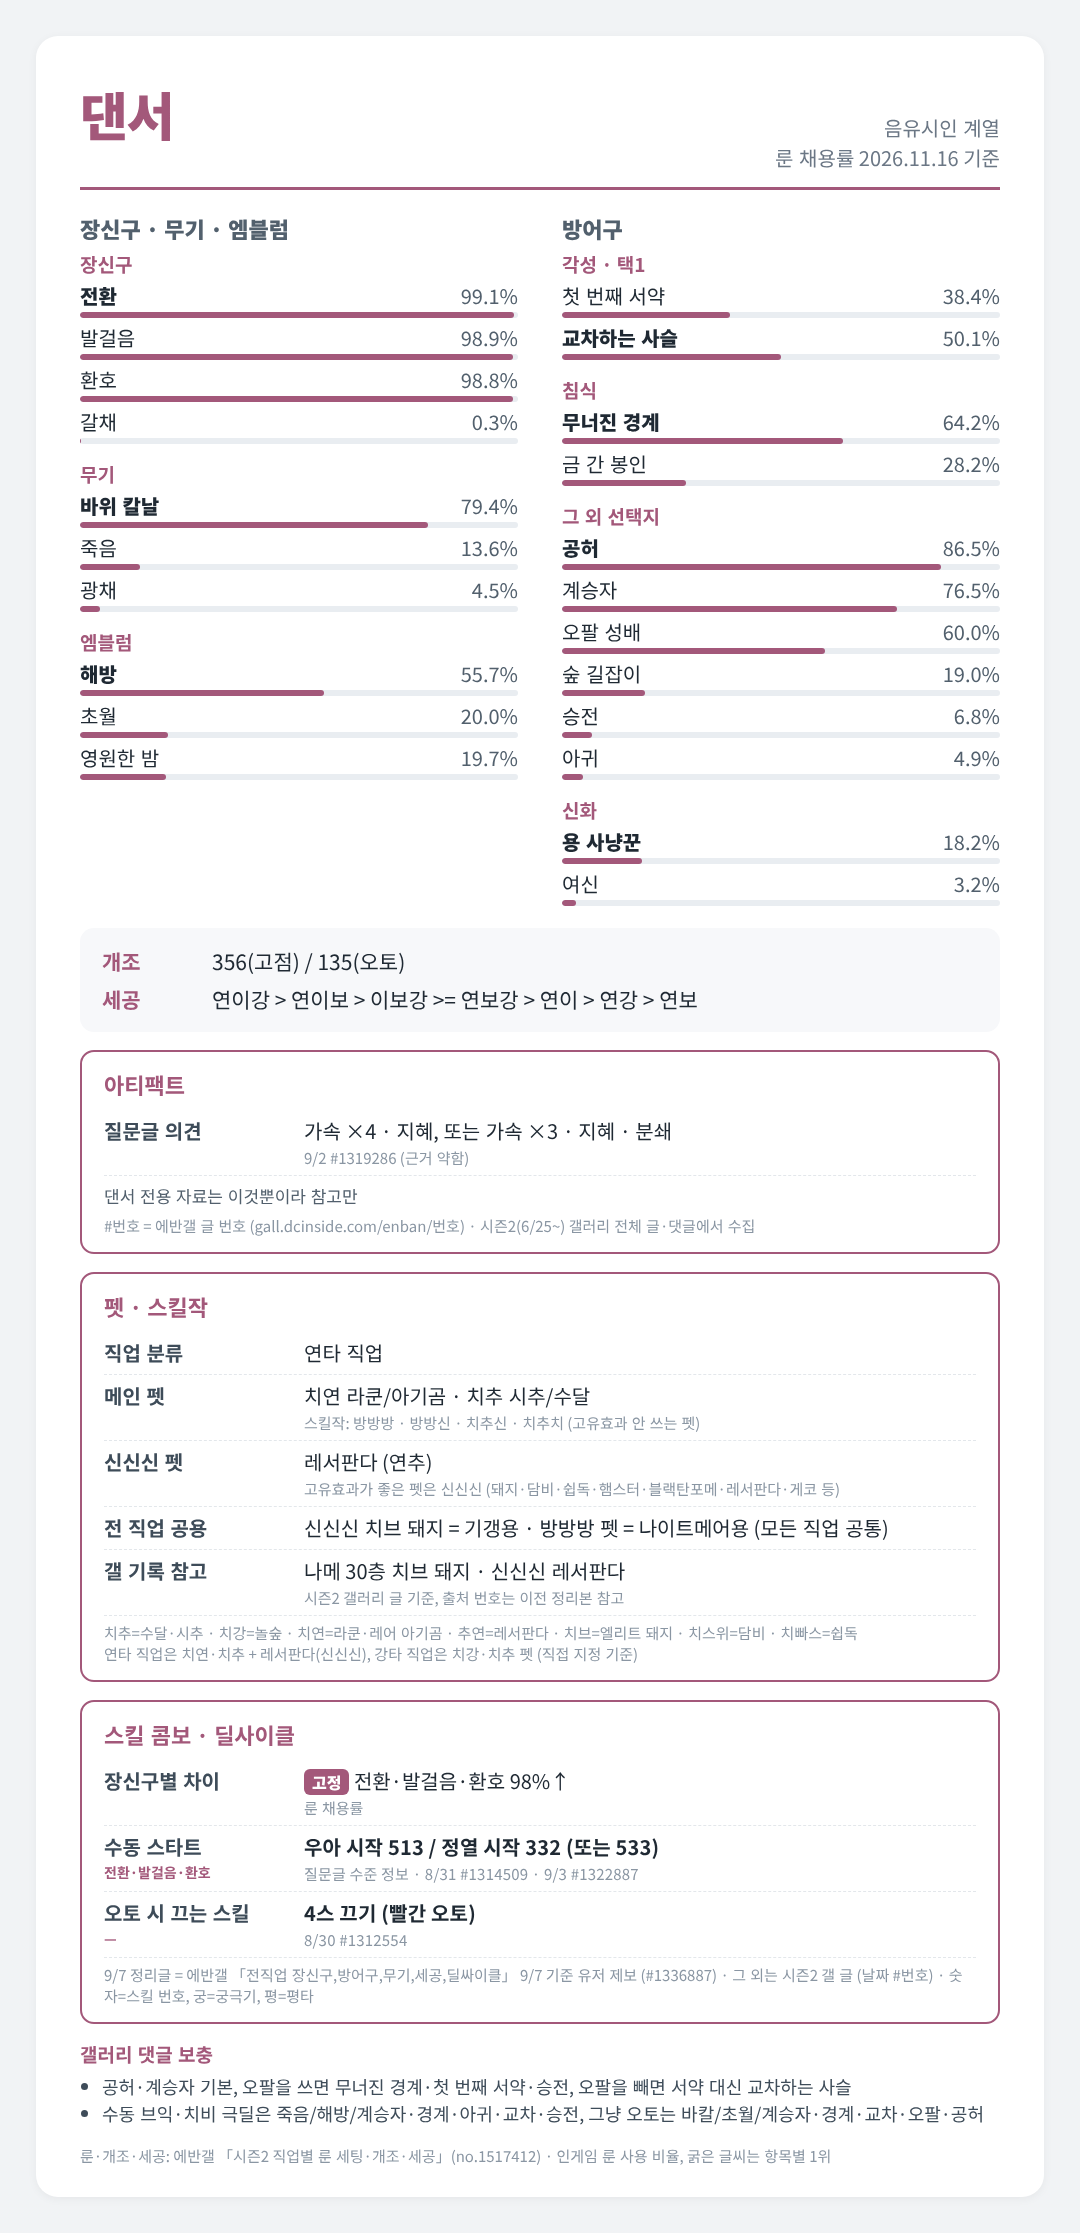
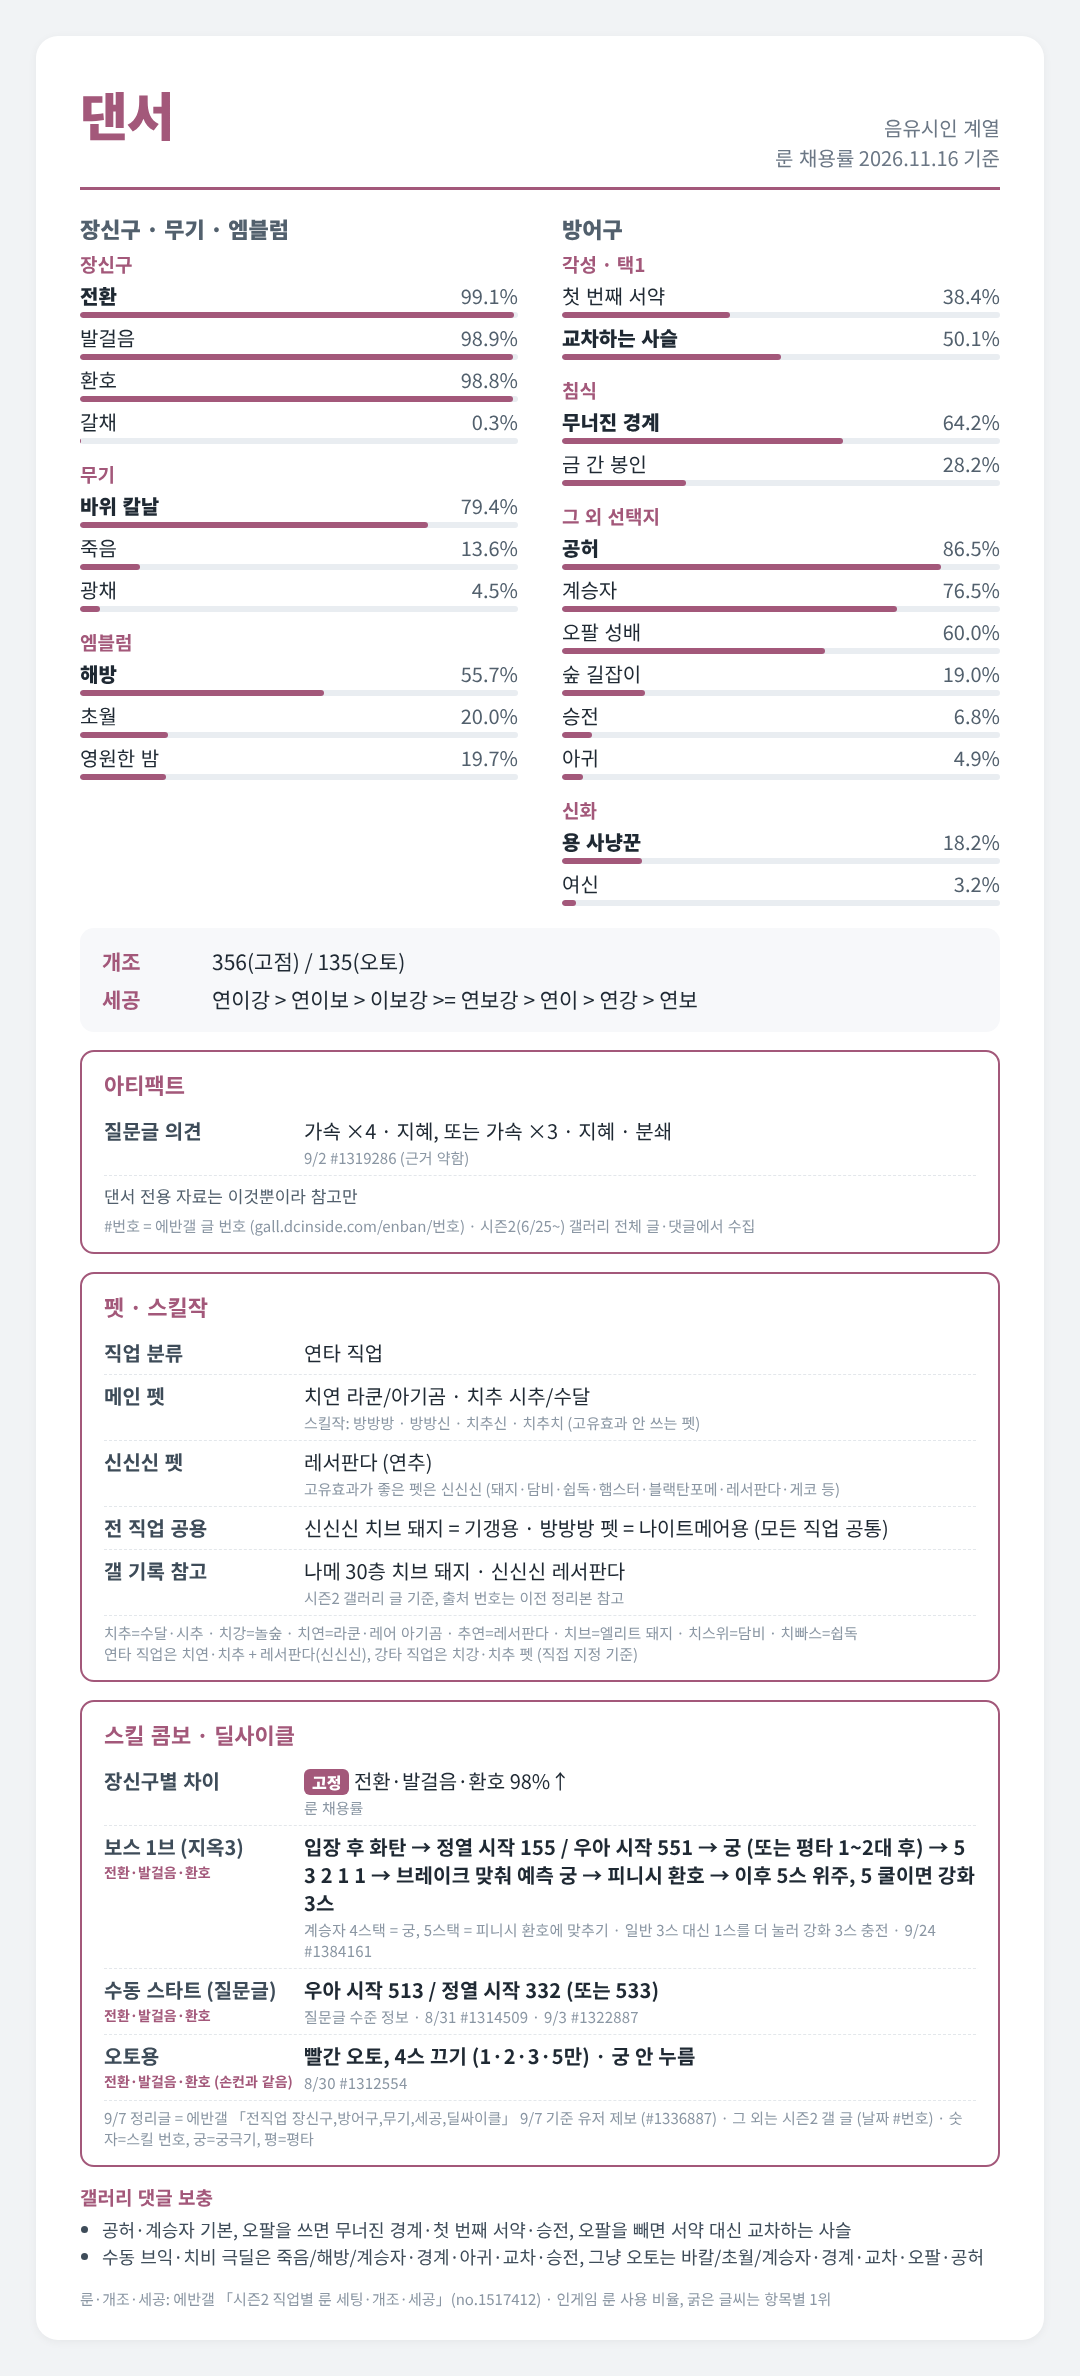
직업별 세팅 카드 14장 갱신 (v1123d)
Claude-Session: https://claude.ai/code/session_01LM8UucPVM58m71Cyhb2qQr

Changed region(s): [[0.0611, 0.0309, 0.9167, 0.9888], [0.7028, 0.8652, 0.8556, 0.8961]]

diff --git a/c/21_dualblade.html b/c/21_dualblade.html
@@ -5,9 +5,9 @@
 <meta property="og:type" content="website">
 <meta property="og:title" content="듀얼블레이드 세팅 카드">
 <meta property="og:description" content="마비노기 모바일 듀얼블레이드 장신구·방어구·무기·세공 세팅">
-<meta property="og:image" content="https://sundae-vanilla.github.io/-/21_dualblade.png?v=1123b">
+<meta property="og:image" content="https://sundae-vanilla.github.io/-/21_dualblade.png?v=1123d">
 <meta property="og:image:width" content="1080">
-<meta property="og:image:height" content="2144">
+<meta property="og:image:height" content="2210">
 <meta property="og:url" content="https://sundae-vanilla.github.io/-/c/21_dualblade.html">
 <style>html,body{margin:0;background:#fff}body{min-height:100vh;display:flex;align-items:center;justify-content:center}img{display:block;width:100%;max-width:1080px;height:auto}</style>
-</head><body><img src="../21_dualblade.png?v=1123b" alt="듀얼블레이드 세팅 카드"></body></html>
+</head><body><img src="../21_dualblade.png?v=1123d" alt="듀얼블레이드 세팅 카드"></body></html>

diff --git a/c/02_greatsword.html b/c/02_greatsword.html
@@ -5,9 +5,9 @@
 <meta property="og:type" content="website">
 <meta property="og:title" content="대검전사 세팅 카드">
 <meta property="og:description" content="마비노기 모바일 대검전사 장신구·방어구·무기·세공 세팅">
-<meta property="og:image" content="https://sundae-vanilla.github.io/-/02_greatsword.png?v=1123b">
+<meta property="og:image" content="https://sundae-vanilla.github.io/-/02_greatsword.png?v=1123d">
 <meta property="og:image:width" content="1080">
-<meta property="og:image:height" content="2497">
+<meta property="og:image:height" content="2518">
 <meta property="og:url" content="https://sundae-vanilla.github.io/-/c/02_greatsword.html">
 <style>html,body{margin:0;background:#fff}body{min-height:100vh;display:flex;align-items:center;justify-content:center}img{display:block;width:100%;max-width:1080px;height:auto}</style>
-</head><body><img src="../02_greatsword.png?v=1123b" alt="대검전사 세팅 카드"></body></html>
+</head><body><img src="../02_greatsword.png?v=1123d" alt="대검전사 세팅 카드"></body></html>

diff --git a/c/06_crossbow.html b/c/06_crossbow.html
@@ -5,9 +5,9 @@
 <meta property="og:type" content="website">
 <meta property="og:title" content="석궁사수 세팅 카드">
 <meta property="og:description" content="마비노기 모바일 석궁사수 장신구·방어구·무기·세공 세팅">
-<meta property="og:image" content="https://sundae-vanilla.github.io/-/06_crossbow.png?v=1123b">
+<meta property="og:image" content="https://sundae-vanilla.github.io/-/06_crossbow.png?v=1123d">
 <meta property="og:image:width" content="1080">
-<meta property="og:image:height" content="2401">
+<meta property="og:image:height" content="2488">
 <meta property="og:url" content="https://sundae-vanilla.github.io/-/c/06_crossbow.html">
 <style>html,body{margin:0;background:#fff}body{min-height:100vh;display:flex;align-items:center;justify-content:center}img{display:block;width:100%;max-width:1080px;height:auto}</style>
-</head><body><img src="../06_crossbow.png?v=1123b" alt="석궁사수 세팅 카드"></body></html>
+</head><body><img src="../06_crossbow.png?v=1123d" alt="석궁사수 세팅 카드"></body></html>

diff --git a/c/15_darkmage.html b/c/15_darkmage.html
@@ -5,9 +5,9 @@
 <meta property="og:type" content="website">
 <meta property="og:title" content="암흑술사 세팅 카드">
 <meta property="og:description" content="마비노기 모바일 암흑술사 장신구·방어구·무기·세공 세팅">
-<meta property="og:image" content="https://sundae-vanilla.github.io/-/15_darkmage.png?v=1123b">
+<meta property="og:image" content="https://sundae-vanilla.github.io/-/15_darkmage.png?v=1123d">
 <meta property="og:image:width" content="1080">
-<meta property="og:image:height" content="2394">
+<meta property="og:image:height" content="2443">
 <meta property="og:url" content="https://sundae-vanilla.github.io/-/c/15_darkmage.html">
 <style>html,body{margin:0;background:#fff}body{min-height:100vh;display:flex;align-items:center;justify-content:center}img{display:block;width:100%;max-width:1080px;height:auto}</style>
-</head><body><img src="../15_darkmage.png?v=1123b" alt="암흑술사 세팅 카드"></body></html>
+</head><body><img src="../15_darkmage.png?v=1123d" alt="암흑술사 세팅 카드"></body></html>

diff --git a/c/03_swordsman.html b/c/03_swordsman.html
@@ -5,9 +5,9 @@
 <meta property="og:type" content="website">
 <meta property="og:title" content="검술사 세팅 카드">
 <meta property="og:description" content="마비노기 모바일 검술사 장신구·방어구·무기·세공 세팅">
-<meta property="og:image" content="https://sundae-vanilla.github.io/-/03_swordsman.png?v=1123b">
+<meta property="og:image" content="https://sundae-vanilla.github.io/-/03_swordsman.png?v=1123d">
 <meta property="og:image:width" content="1080">
-<meta property="og:image:height" content="2634">
+<meta property="og:image:height" content="2770">
 <meta property="og:url" content="https://sundae-vanilla.github.io/-/c/03_swordsman.html">
 <style>html,body{margin:0;background:#fff}body{min-height:100vh;display:flex;align-items:center;justify-content:center}img{display:block;width:100%;max-width:1080px;height:auto}</style>
-</head><body><img src="../03_swordsman.png?v=1123b" alt="검술사 세팅 카드"></body></html>
+</head><body><img src="../03_swordsman.png?v=1123d" alt="검술사 세팅 카드"></body></html>

diff --git a/c/20_fighter.html b/c/20_fighter.html
@@ -5,9 +5,9 @@
 <meta property="og:type" content="website">
 <meta property="og:title" content="격투가 세팅 카드">
 <meta property="og:description" content="마비노기 모바일 격투가 장신구·방어구·무기·세공 세팅">
-<meta property="og:image" content="https://sundae-vanilla.github.io/-/20_fighter.png?v=1123b">
+<meta property="og:image" content="https://sundae-vanilla.github.io/-/20_fighter.png?v=1123d">
 <meta property="og:image:width" content="1080">
-<meta property="og:image:height" content="2554">
+<meta property="og:image:height" content="2669">
 <meta property="og:url" content="https://sundae-vanilla.github.io/-/c/20_fighter.html">
 <style>html,body{margin:0;background:#fff}body{min-height:100vh;display:flex;align-items:center;justify-content:center}img{display:block;width:100%;max-width:1080px;height:auto}</style>
-</head><body><img src="../20_fighter.png?v=1123b" alt="격투가 세팅 카드"></body></html>
+</head><body><img src="../20_fighter.png?v=1123d" alt="격투가 세팅 카드"></body></html>

diff --git a/c/18_musician.html b/c/18_musician.html
@@ -5,9 +5,9 @@
 <meta property="og:type" content="website">
 <meta property="og:title" content="악사 세팅 카드">
 <meta property="og:description" content="마비노기 모바일 악사 장신구·방어구·무기·세공 세팅">
-<meta property="og:image" content="https://sundae-vanilla.github.io/-/18_musician.png?v=1123b">
+<meta property="og:image" content="https://sundae-vanilla.github.io/-/18_musician.png?v=1123d">
 <meta property="og:image:width" content="1080">
-<meta property="og:image:height" content="2328">
+<meta property="og:image:height" content="2394">
 <meta property="og:url" content="https://sundae-vanilla.github.io/-/c/18_musician.html">
 <style>html,body{margin:0;background:#fff}body{min-height:100vh;display:flex;align-items:center;justify-content:center}img{display:block;width:100%;max-width:1080px;height:auto}</style>
-</head><body><img src="../18_musician.png?v=1123b" alt="악사 세팅 카드"></body></html>
+</head><body><img src="../18_musician.png?v=1123d" alt="악사 세팅 카드"></body></html>

diff --git a/c/08_mage.html b/c/08_mage.html
@@ -5,9 +5,9 @@
 <meta property="og:type" content="website">
 <meta property="og:title" content="마법사 세팅 카드">
 <meta property="og:description" content="마비노기 모바일 마법사 장신구·방어구·무기·세공 세팅">
-<meta property="og:image" content="https://sundae-vanilla.github.io/-/08_mage.png?v=1123b">
+<meta property="og:image" content="https://sundae-vanilla.github.io/-/08_mage.png?v=1123d">
 <meta property="og:image:width" content="1080">
-<meta property="og:image:height" content="2373">
+<meta property="og:image:height" content="2439">
 <meta property="og:url" content="https://sundae-vanilla.github.io/-/c/08_mage.html">
 <style>html,body{margin:0;background:#fff}body{min-height:100vh;display:flex;align-items:center;justify-content:center}img{display:block;width:100%;max-width:1080px;height:auto}</style>
-</head><body><img src="../08_mage.png?v=1123b" alt="마법사 세팅 카드"></body></html>
+</head><body><img src="../08_mage.png?v=1123d" alt="마법사 세팅 카드"></body></html>

diff --git a/c/14_monk.html b/c/14_monk.html
@@ -5,9 +5,9 @@
 <meta property="og:type" content="website">
 <meta property="og:title" content="수도사 세팅 카드">
 <meta property="og:description" content="마비노기 모바일 수도사 장신구·방어구·무기·세공 세팅">
-<meta property="og:image" content="https://sundae-vanilla.github.io/-/14_monk.png?v=1123b">
+<meta property="og:image" content="https://sundae-vanilla.github.io/-/14_monk.png?v=1123d">
 <meta property="og:image:width" content="1080">
-<meta property="og:image:height" content="2216">
+<meta property="og:image:height" content="2310">
 <meta property="og:url" content="https://sundae-vanilla.github.io/-/c/14_monk.html">
 <style>html,body{margin:0;background:#fff}body{min-height:100vh;display:flex;align-items:center;justify-content:center}img{display:block;width:100%;max-width:1080px;height:auto}</style>
-</head><body><img src="../14_monk.png?v=1123b" alt="수도사 세팅 카드"></body></html>
+</head><body><img src="../14_monk.png?v=1123d" alt="수도사 세팅 카드"></body></html>

diff --git a/c/04_knight.html b/c/04_knight.html
@@ -5,9 +5,9 @@
 <meta property="og:type" content="website">
 <meta property="og:title" content="기사 세팅 카드">
 <meta property="og:description" content="마비노기 모바일 기사 장신구·방어구·무기·세공 세팅">
-<meta property="og:image" content="https://sundae-vanilla.github.io/-/04_knight.png?v=1123b">
+<meta property="og:image" content="https://sundae-vanilla.github.io/-/04_knight.png?v=1123d">
 <meta property="og:image:width" content="1080">
-<meta property="og:image:height" content="2282">
+<meta property="og:image:height" content="2303">
 <meta property="og:url" content="https://sundae-vanilla.github.io/-/c/04_knight.html">
 <style>html,body{margin:0;background:#fff}body{min-height:100vh;display:flex;align-items:center;justify-content:center}img{display:block;width:100%;max-width:1080px;height:auto}</style>
-</head><body><img src="../04_knight.png?v=1123b" alt="기사 세팅 카드"></body></html>
+</head><body><img src="../04_knight.png?v=1123d" alt="기사 세팅 카드"></body></html>

diff --git a/c/05_archer.html b/c/05_archer.html
@@ -5,9 +5,9 @@
 <meta property="og:type" content="website">
 <meta property="og:title" content="궁수 세팅 카드">
 <meta property="og:description" content="마비노기 모바일 궁수 장신구·방어구·무기·세공 세팅">
-<meta property="og:image" content="https://sundae-vanilla.github.io/-/05_archer.png?v=1123b">
+<meta property="og:image" content="https://sundae-vanilla.github.io/-/05_archer.png?v=1123d">
 <meta property="og:image:width" content="1080">
-<meta property="og:image:height" content="2572">
+<meta property="og:image:height" content="2638">
 <meta property="og:url" content="https://sundae-vanilla.github.io/-/c/05_archer.html">
 <style>html,body{margin:0;background:#fff}body{min-height:100vh;display:flex;align-items:center;justify-content:center}img{display:block;width:100%;max-width:1080px;height:auto}</style>
-</head><body><img src="../05_archer.png?v=1123b" alt="궁수 세팅 카드"></body></html>
+</head><body><img src="../05_archer.png?v=1123d" alt="궁수 세팅 카드"></body></html>

diff --git a/c/13_priest.html b/c/13_priest.html
@@ -5,9 +5,9 @@
 <meta property="og:type" content="website">
 <meta property="og:title" content="사제 세팅 카드">
 <meta property="og:description" content="마비노기 모바일 사제 장신구·방어구·무기·세공 세팅">
-<meta property="og:image" content="https://sundae-vanilla.github.io/-/13_priest.png?v=1123b">
+<meta property="og:image" content="https://sundae-vanilla.github.io/-/13_priest.png?v=1123d">
 <meta property="og:image:width" content="1080">
-<meta property="og:image:height" content="2462">
+<meta property="og:image:height" content="2556">
 <meta property="og:url" content="https://sundae-vanilla.github.io/-/c/13_priest.html">
 <style>html,body{margin:0;background:#fff}body{min-height:100vh;display:flex;align-items:center;justify-content:center}img{display:block;width:100%;max-width:1080px;height:auto}</style>
-</head><body><img src="../13_priest.png?v=1123b" alt="사제 세팅 카드"></body></html>
+</head><body><img src="../13_priest.png?v=1123d" alt="사제 세팅 카드"></body></html>
